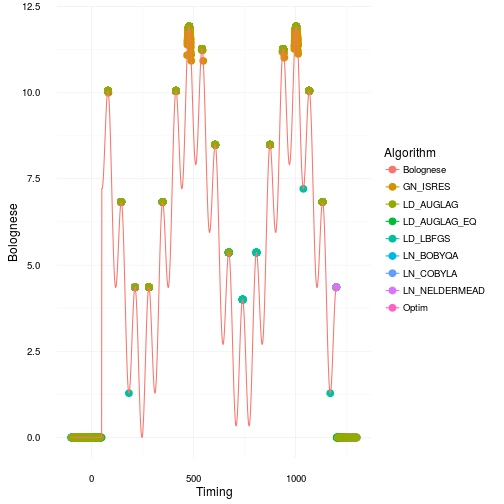
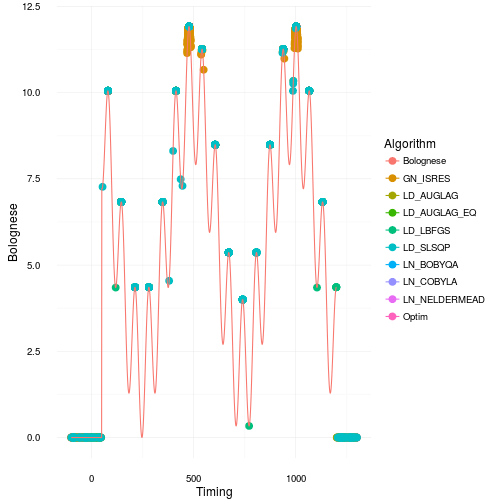
Updated with one more algorithm.

diff --git a/_posts/2016-10-17-Choosing-your-optimization-algorithm-carefully.md b/_posts/2016-10-17-Choosing-your-optimization-algorithm-carefully.md
@@ -37,6 +37,7 @@ The algorithms we will look into are primarily implemented in *NLopt* except the
 * Low-storage Broyden–Fletcher–Goldfarb–Shanno algorithm ([LBFGS](http://www.cs.nyu.edu/~overton/papers/pdffiles/bfgs_inexactLS.pdf))
 * Augmented Lagrangian algorithm ([AUGLAG](http://citeseerx.ist.psu.edu/viewdoc/summary?doi=10.1.1.72.6121))
 * Nelder-Mead Simplex ([NELDERMEAD](https://dx.doi.org/10.1093%2Fcomjnl%2F7.4.308))
+* Sequential Quadratic Programming ([SLSQP](http://www.neos-guide.org/content/sequential-quadratic-programming))
  
 As some algorithms (or even most of them) may depend heavily on initial values and starting points we run 500 optimization with randomized starting points for all algorithms. Each algorithm receive the same starting point for each iteration. Thus, each algorithm gets to start it's optimization in 500 different locations. Seems like a fair setup to me.
  
@@ -55,16 +56,17 @@ That looks quite bad actually. Especially for many of the gradient based approac
 So where did the optimizations end up on the Bolognese optimization on average? Well in order to see that we will use robust statistics instead to make sure we actually select values that were optmized. Robust statistics in this case will be the median. So now we illustrate the median cook times found by the different algorithms. For fun we will show you the mean results as well. Just for your educational pleasure.
  
 
-|Algorithm     | Mean| Median| Min|  Max|
-|:-------------|----:|------:|---:|----:|
-|GN_ISRES      | 11.8|   11.9|  10| 11.9|
-|LD_AUGLAG     |  8.6|   10.1|   0| 11.9|
-|LD_AUGLAG_EQ  |  8.5|   10.1|   0| 11.9|
-|LD_LBFGS      |  6.3|    6.8|   0| 11.9|
-|LN_BOBYQA     |  9.6|   11.3|   0| 11.9|
-|LN_COBYLA     |  9.5|   11.3|   0| 11.9|
-|LN_NELDERMEAD | 10.4|   11.3|   0| 11.9|
-|Optim         |  8.4|   10.1|   0| 11.9|
+|Algorithm     | Mean| Median|  Min|  Max|
+|:-------------|----:|------:|----:|----:|
+|GN_ISRES      | 11.8|   11.9| 10.3| 11.9|
+|LD_AUGLAG     |  8.7|   10.1|  0.0| 11.9|
+|LD_AUGLAG_EQ  |  8.8|   10.1|  0.0| 11.9|
+|LD_LBFGS      |  6.7|    6.8|  0.0| 11.9|
+|LD_SLSQP      |  7.0|    6.8|  0.0| 11.9|
+|LN_BOBYQA     |  9.6|   11.3|  0.0| 11.9|
+|LN_COBYLA     |  9.4|   11.3|  0.0| 11.9|
+|LN_NELDERMEAD | 10.0|   11.3|  0.0| 11.9|
+|Optim         |  8.1|   10.1|  0.0| 11.9|
  
 The table above is pretty clear. From an optimization point of view the results are clear from both and average, median, worst and best case scenario. The only potential problem here is timing. Evolutionary algorithms are notoriously slow. So experiment with this yourself and see if you get similar results. 
  
